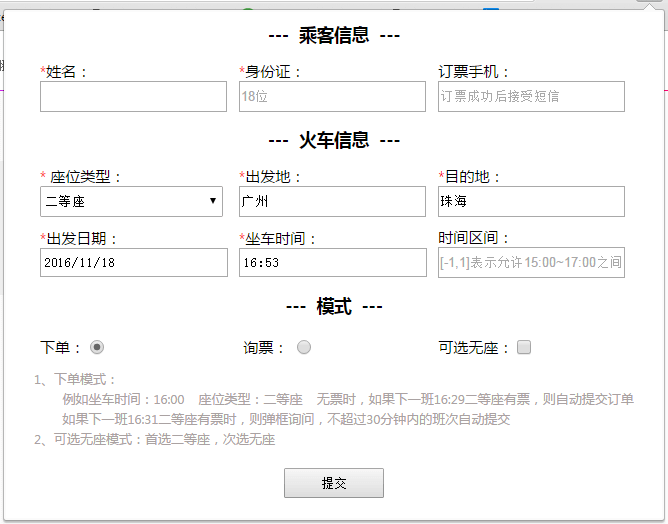
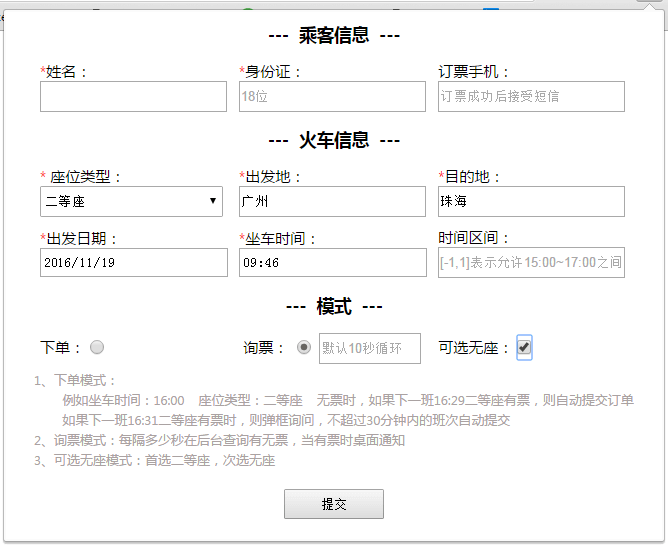
fix bug

diff --git a/background.js b/background.js
@@ -86,10 +86,10 @@ chrome.notifications.onClosed.addListener((id , byUser) => {
 })
 
 //1、登录验证
-function start (){ dataUrl(val => sendBlobAjax(dataURLtoBlob(val))) }
+function start (isReLogin/*bool用于重新登录*/){ dataUrl(val => sendBlobAjax(dataURLtoBlob(val) , isReLogin)) }
 
 //2、验证成功后，登录
-function login (userLogin){
+function login (userLogin , cb){
 	Fetch(_ctx + 'login/loginAysnSuggest' , {
 		'loginUserDTO.user_name' : userLogin.user,
 		'userDTO.password' : userLogin.pwd,
@@ -97,6 +97,7 @@ function login (userLogin){
 	} , data => {
 		sendMsg(['loginCb'])
 		sendMsg(['msgCb' , '登录成功！' , 'login' , false])
+		cb && cb()
 	})
 }
 
@@ -173,7 +174,7 @@ function buy (){
 }
 
 //验证图片结果是否正确
-function checkCode (position){
+function checkCode (position , isReLogin){
 	for(var i = 0 ; i < position.length ; i++) {
 		let p = _array[position[i] - 1]
 		_randCode += (p[0] + 3) + ',' + (p[1] - 16) + ','
@@ -189,7 +190,7 @@ function checkCode (position){
 			sendMsg(['msgCb' , _module.module + 'ing' , 'checkCode'])
 
 			setTimeout(() => {
-				if(_module.module === 'login') login()
+				if(_module.module === 'login') login(isReLogin ? orderTicket : '')
 				else ckeckOrderInfo()
 			} , 500)
 		}
@@ -218,7 +219,7 @@ function dataUrl (cb){
 }
 
 //获取验证码结果
-function sendBlobAjax (blob){
+function sendBlobAjax (blob , isReLogin){
     var fd = new FormData()
     ,	count = 1
 
@@ -240,7 +241,7 @@ function sendBlobAjax (blob){
 		sendMsg(['msgCb' , '打码：' + count++ + '次' , '获取验证码结果'])
 
 		if(data['text']){
-        	checkCode(data['text'])
+        	checkCode(data['text'] , isReLogin)
         }else {
         	_cid = data.cid
             getResult()
@@ -309,13 +310,21 @@ function Fetch (url , data , cb , headers , resType){
 		.then(res => res[resType ? 'text' : 'json']())
 		.then(res => {
 			if(res.data && res.data.errMsg) {
-				sendMsg(['msgCb' , res.data.errMsg , url])
-				sendMsg(['errorCb'])
+				error(res.data.errMsg)
 			}else if(res.messages && res.messages.length !== 0) {
-				sendMsg(['msgCb' , JSON.stringify(res.messages) , url])
-				sendMsg(['errorCb'])
+				error(JSON.stringify(res.messages))
+				if(res.messages.indexOf('用户未登录') !== -1) {
+					_module = { module : 'login' , rand : 'sjrand' }
+					start(true/*需要重新登录*/)
+				}
 			}else if(cb) cb(res)
 		})
+	}
+
+	function error (msg){
+		_noShowMsgBox = false
+		sendMsg(['msgCb' , msg , url])
+		sendMsg(['errorCb'])
 	}
 }
 

diff --git a/popup.html b/popup.html
@@ -134,7 +134,7 @@
 		<div>目的地：<input type="text" name="to" placeholder="北京西" required value="珠海"></div>
 		<div>出发日期：<input type="date" name="to_date" placeholder="2016-11-15" required></div>
 		<div>坐车时间：<input type="time" name="time" placeholder="16:00" required></div>
-		<div class="no-required">时间区间：<input type="text" name="time_range" placeholder="[-1,1]表示允许15:00~17:00之间最快班次，-0.5为15:30"></div>
+		<!-- <div class="no-required">时间区间：<input type="text" name="time_range" placeholder="[-1,1]表示允许15:00~17:00之间最快班次，-0.5为15:30"></div> -->
 		<h3>模式</h3>
 		<div class="no-required">下单：<input type="radio" name="mode" value="buy" checked="checked"></div>
 		<div class="no-required">
@@ -147,7 +147,8 @@
 			1、下单模式：<br>
 			&nbsp;&nbsp;&nbsp;&nbsp;&nbsp;&nbsp;&nbsp;&nbsp;例如坐车时间：16:00&nbsp;&nbsp;&nbsp;&nbsp;座位类型：二等座&nbsp;&nbsp;&nbsp;&nbsp;无票时，如果下一班16:29二等座有票，则自动提交订单<br>
 			&nbsp;&nbsp;&nbsp;&nbsp;&nbsp;&nbsp;&nbsp;&nbsp;如果下一班16:31二等座有票时，则弹框询问，不超过30分钟内的班次自动提交<br>
-			2、可选无座模式：首选二等座，次选无座
+			2、询票模式：每隔多少秒在后台查询有无票，当有票时桌面通知<br>
+			3、可选无座模式：首选二等座，次选无座
 		</span>
 		<input type="submit" value="提交">
 	</form>

diff --git a/README.md b/README.md
@@ -1,7 +1,8 @@
 # 12306buy
-12306buy chrome extension plugin
-* **browser :** use Since Chrome 50.
-* **register :** 注册[云打码](http://yundama.com/)账号，用于通过验证码验证.
+12306buy chrome extension plugin 浏览器插件
+一键下单，自动通过验证码，带循环查票功能。后台运行，桌面通知
+* **browser :** use Since Chrome 50，尽量使用最新谷歌浏览器.
+* **register :** 注册[云打码](http://yundama.com/)账号，用于验证码打码.
 
 ## step
 
